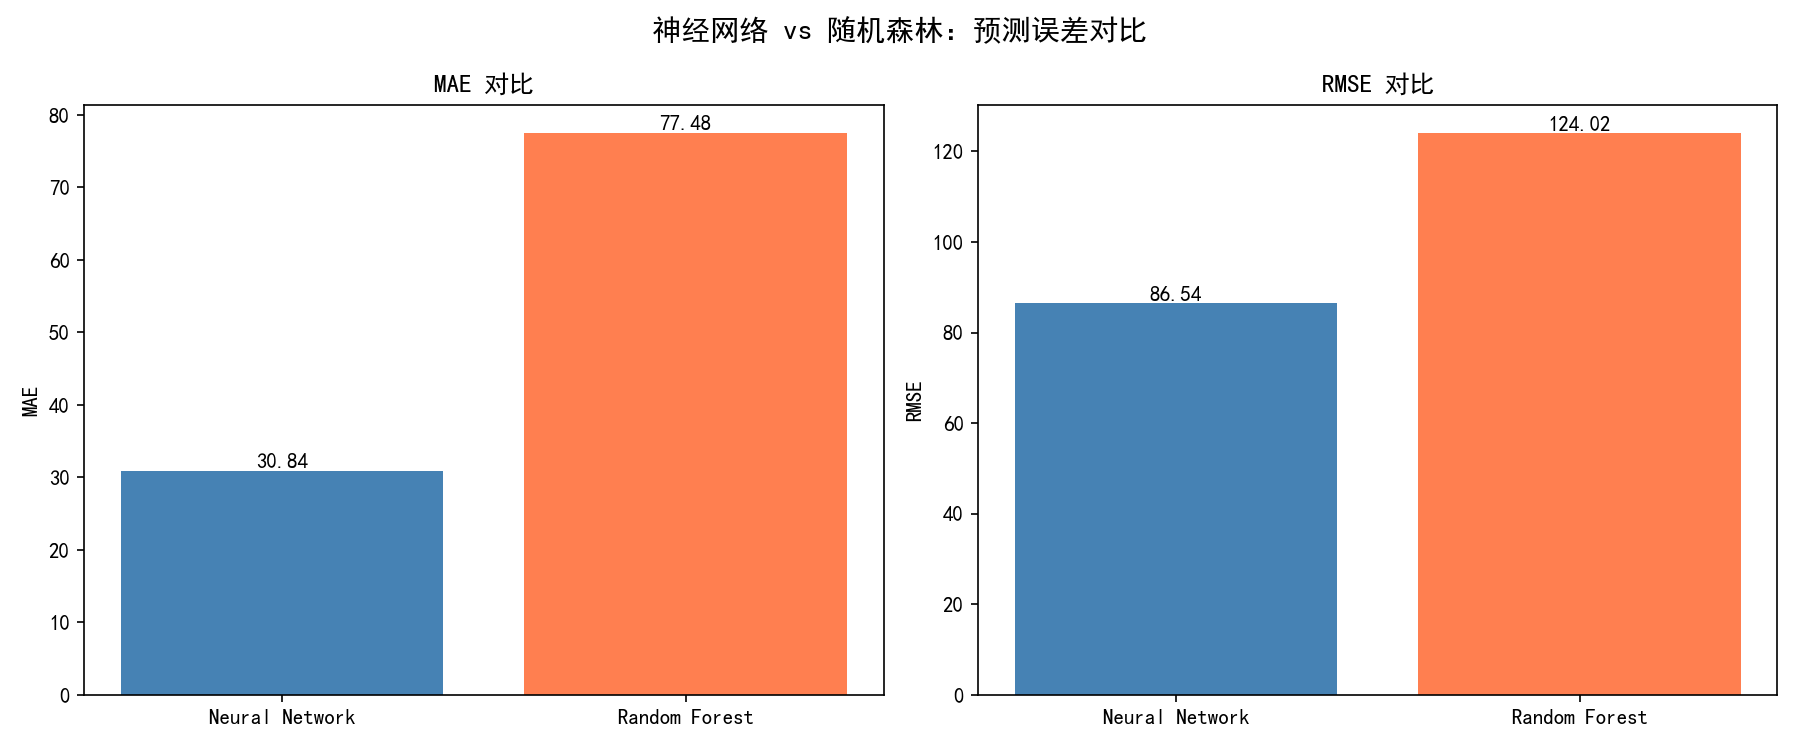
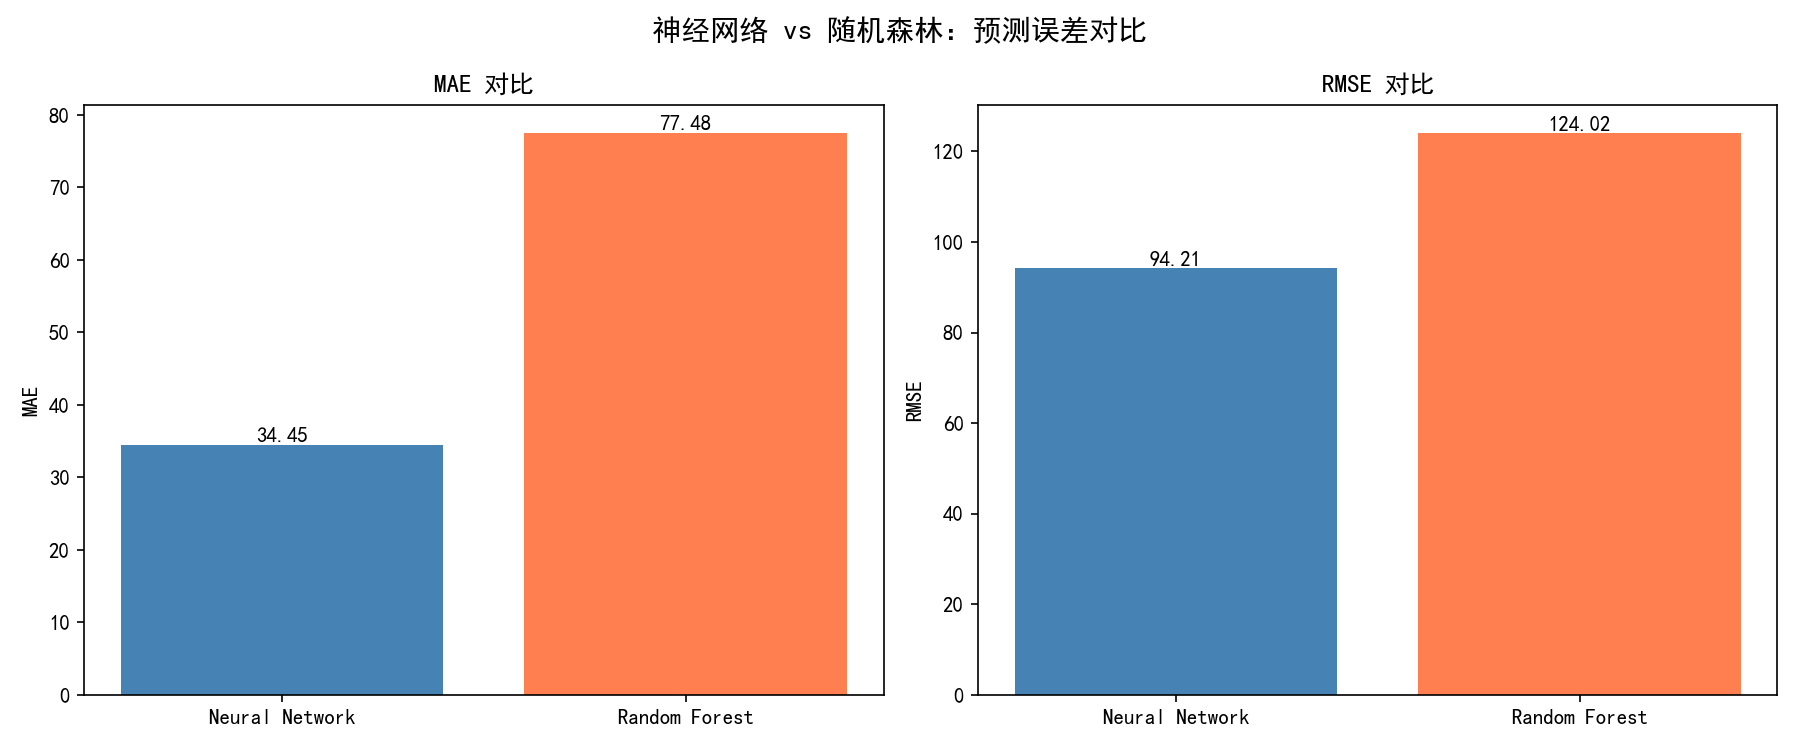
添加main.py和运行截图

Changed region(s): [[0.56, 0.3373, 0.7467, 0.4293], [0.0622, 0.5827, 0.2489, 0.644]]

diff --git a/work/main.py b/work/main.py
@@ -1,0 +1,71 @@
+"""
+main.py - NYC 出行数据智能问答系统
+一键运行入口：数据处理 → 分析可视化 → 预测模型 → 问答接口
+"""
+
+import os
+import sys
+
+# 确保工作目录在项目根目录
+os.chdir(os.path.dirname(os.path.abspath(__file__)))
+
+# 添加 src 目录到系统路径
+sys.path.insert(0, os.path.join(os.getcwd(), 'src'))
+
+from M1 import DataProcessor
+from M2 import Analyzer
+from M3 import Predictor
+from M4 import QAInterface
+
+if __name__ == "__main__":
+    print("\n" + "=" * 60)
+    print("  NYC Yellow Taxi 出行数据智能问答系统")
+    print("  一键启动：数据处理 → 分析 → 预测 → 问答")
+    print("=" * 60)
+
+    # ================================================================
+    # 模块一：数据处理与特征工程
+    # ================================================================
+    print("\n" + "▶" * 30)
+    print("▶ 阶段 1/4：数据处理与特征工程")
+    print("▶" * 30)
+
+    processor = DataProcessor(data_dir='data', output_dir='outputs')
+    df_clean = processor.run()
+
+    # ================================================================
+    # 模块二：数据分析与可视化
+    # ================================================================
+    print("\n" + "▶" * 30)
+    print("▶ 阶段 2/4：数据分析与可视化")
+    print("▶" * 30)
+
+    analyzer = Analyzer(output_dir='outputs')
+    analyzer.load_data(df=df_clean)
+    analyzer.run()
+
+    # ================================================================
+    # 模块三：预测模型
+    # ================================================================
+    print("\n" + "▶" * 30)
+    print("▶ 阶段 3/4：出行需求预测模型")
+    print("▶" * 30)
+
+    predictor = Predictor(output_dir='outputs')
+    predictor.load_data(df=df_clean)
+    predictor.run()
+
+    # ================================================================
+    # 模块四：问答接口
+    # ================================================================
+    print("\n" + "▶" * 30)
+    print("▶ 阶段 4/4：智能问答接口")
+    print("▶" * 30)
+
+    qa = QAInterface(output_dir='outputs')
+    qa.load_data(df=df_clean, demand_df=predictor.demand_df)
+    qa.run()
+
+    print("\n" + "=" * 60)
+    print("  系统运行完毕，感谢使用！")
+    print("=" * 60)